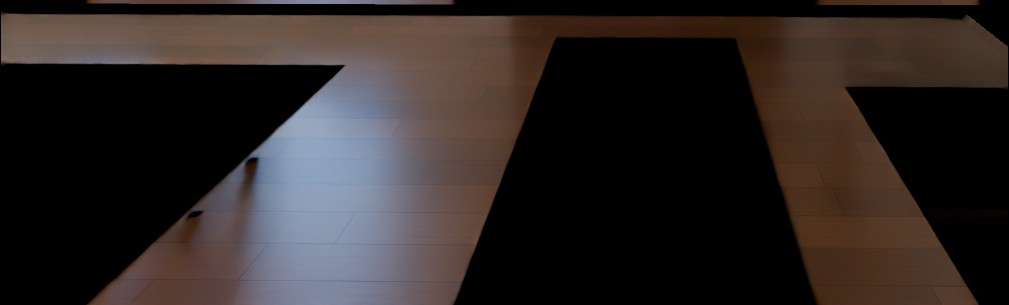
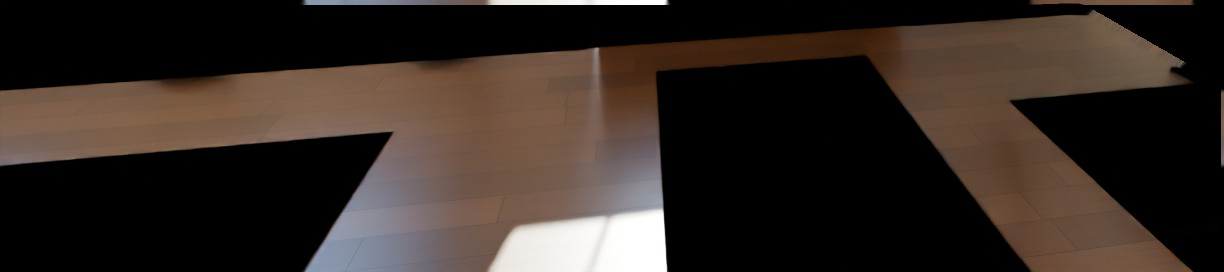
The Lookout 3500 2.0: foyer
The Lookout 3500 2.0 page: a picture redone.

- Foyer redone: four front door designs, each under a transom (glass over a panel as the new default, steel-look glass doors, a Craftsman door with sidelights, panelled doors), door colour and hardware follow the design; crown molding as a choice; cased window with curtains, afternoon sun. A door design that lets in more or less light now fades into the picture instead of ending at a rectangle.

Claude-Session: https://claude.ai/code/session_01LcUu1yMTHs7qUW5E51HSvp

diff --git a/lookout/site.js b/lookout/site.js
@@ -1,1 +1,1 @@
-window.SJ={"name":"The Lookout 3500 2.0","slug":"the-lookout-3500-2","tag":"One-and-a-half-story plan","sub":"Four bedrooms and three and a half baths in 3,760 square feet, with the primary suite on the main level, a lookout room on the roof and a three-car garage.","stats":[["3,760","sq ft finished"],["4","bedrooms"],["3.5","baths"],["3","car garage"],["Main-level","primary suite"],["14 x 16","lookout room"]],"hero":{"day":"img/hero-day.jpg","night":""},"views":[{"id":"hero","name":"Front","kind":"ext","keys":["fas","fdc","g","gdc","lk","prf","rof","sid","trm","win"]},{"id":"yard","name":"Back yard","kind":"ext","keys":["fas","g","lk","pl","prf","pst","rof","sid","trm","win"]},{"id":"great","name":"Living room","kind":"int","keys":["bi","clg","cr","flr","fp","hwc","idc","ids","wal","win"]},{"id":"kitchen","name":"Kitchen","kind":"int","keys":["bsp","cab","ctr","flr","hwc","isl","wal","win"]},{"id":"dining","name":"Dining room","kind":"int","keys":["flr","wal","win"]},{"id":"foyer","name":"Foyer","kind":"int","keys":["fdc","flr","sf","sr","wal","win"]},{"id":"primary","name":"Primary bedroom","kind":"int","keys":["flr","hwc","wal","win"]},{"id":"bath","name":"Primary bath","kind":"int","keys":["btl","ctr","hwc","wal","win"]},{"id":"loft","name":"Upstairs loft","kind":"int","keys":["wal","win"]},{"id":"lookout","name":"Lookout room","kind":"int","keys":["sf","sr","wal","win"],"veil":{"when":{"lk":"0"},"keys":["sf","sr","wal","win"],"note":"Shows in this picture when the lookout room is chosen"}},{"id":"bed2","name":"Bedroom 2","kind":"int","keys":["cpt","uf","wal","win"]},{"id":"bed4","name":"Bedroom 4","kind":"int","keys":["cpt","hwc","idc","uf","wal","win"]},{"id":"lounge","name":"Lower level lounge","kind":"int","keys":["b","cab","ctr","hwc","isl","wal"],"veil":{"when":{"b":"u"},"keys":["cab","ctr","hwc","isl","wal"],"note":"Shows in this picture once the lower level is finished"}},{"id":"bar","name":"Lower level bar","kind":"int","keys":["b","ctr","hwc","isl","wal"],"veil":{"when":{"b":"u"},"keys":["ctr","hwc","isl","wal"],"note":"Shows in this picture once the lower level is finished"}}],"baths":[],"bathkeys":[],"opts":[{"key":"lk","name":"Lookout room","cat":"ext","ch":[{"id":"1","name":"Lookout room on the roof (as drawn)"},{"id":"0","name":"No lookout"}],"note":"The lookout room sits on the roof, 14 x 16 ft with windows all around, reached by its own stair."},{"key":"g","name":"Garage entry","cat":"ext","ch":[{"id":"f","name":"Front entry (as drawn)"},{"id":"s","name":"Side entry, with a motor court"}],"note":"Side entry: the garage wing is re-proportioned and its doors face a motor court at the side; windows take their place on the front."},{"key":"pl","name":"Pool","cat":"ext","ch":[{"id":"n","name":"No pool (as drawn)"},{"id":"1","name":"Lap pool, 10 x 45 ft"},{"id":"2","name":"Plunge pool with a raised spa"},{"id":"3","name":"Courtyard pool with a shade pavilion"}],"note":"The pools sit behind the covered deck, on a paved terrace one step above the lawn."},{"key":"sid","name":"Siding colour","cat":"ext","ch":[{"id":"white","name":"Chantilly White","css":"#F1EFE8"},{"id":"cream","name":"Warm Cream","css":"#E6DCC6"},{"id":"greige","name":"Pebble Greige","css":"#B9B2A3"},{"id":"sage","name":"Sage","css":"#8E9A86"},{"id":"blue","name":"Harbor Blue","css":"#5E768A"},{"id":"navy","name":"Midnight Navy","css":"#28364A"},{"id":"iron","name":"Iron Gray","css":"#45484A"},{"id":"black","name":"Tricorn Black","css":"#222325"}]},{"key":"trm","name":"Trim and corner boards","cat":"ext","ch":[{"id":"white","name":"White","css":"#F4F2EC"},{"id":"cream","name":"Cream","css":"#E9E1CF"},{"id":"black","name":"Black","css":"#1E1F21"},{"id":"bronze","name":"Dark Bronze","css":"#3A322B"}]},{"key":"rof","name":"Roof shingles","cat":"ext","ch":[{"id":"char","name":"Charcoal","css":"linear-gradient(180deg,#33353A 0 50%,#45474C 50%)"},{"id":"onyx","name":"Onyx Black","css":"linear-gradient(180deg,#1D1E21 0 50%,#2A2B2F 50%)"},{"id":"wood","name":"Weathered Wood","css":"linear-gradient(180deg,#5E554B 0 50%,#7A6F62 50%)"},{"id":"slate","name":"Slate Gray","css":"linear-gradient(180deg,#4D5560 0 50%,#69717C 50%)"},{"id":"brown","name":"Barkwood","css":"linear-gradient(180deg,#41342B 0 50%,#5B4A3D 50%)"}]},{"key":"prf","name":"Porch, lookout and accent roofs","cat":"ext","ch":[{"id":"metal","name":"Black standing seam","css":"repeating-linear-gradient(90deg,#1b1c1f 0 7px,#34363a 7px 9px)"},{"id":"copper","name":"Copper standing seam","css":"repeating-linear-gradient(90deg,#9A5A34 0 7px,#c07c4c 7px 9px)"},{"id":"match","name":"Shingles to match","css":"repeating-linear-gradient(0deg,#2a2b2f 0 5px,#1d1e21 5px 10px)"}]},{"key":"fas","name":"Gutters and downspouts","cat":"ext","ch":[{"id":"white","name":"White","css":"#F2F0EA"},{"id":"black","name":"Black","css":"#1B1C1E"},{"id":"bronze","name":"Dark Bronze","css":"#3A322B"}]},{"key":"win","name":"Window frames","cat":"ext","ch":[{"id":"black","name":"Black","css":"#18191B"},{"id":"white","name":"White","css":"#F0EEE8"},{"id":"bronze","name":"Bronze","css":"#3B3129"},{"id":"clay","name":"Clay","css":"#A89F8E"}]},{"key":"fdc","name":"Front door colour","cat":"ext","ch":[{"id":"wood","name":"Stained Walnut","css":"linear-gradient(135deg,#6A4226,#4A2C18)"},{"id":"black","name":"Black","css":"#161719"},{"id":"navy","name":"Navy","css":"#22324A"},{"id":"red","name":"Barn Red","css":"#6E1F1B"},{"id":"teal","name":"Deep Teal","css":"#1F4A4C"},{"id":"sage","name":"Sage","css":"#7C8A74"},{"id":"white","name":"White","css":"#F0EEE8"}]},{"key":"gdc","name":"Garage door colour","cat":"ext","ch":[{"id":"white","name":"White","css":"#EFEDE7"},{"id":"black","name":"Black","css":"#18191B"},{"id":"iron","name":"Iron Gray","css":"#4A4C4E"},{"id":"bronze","name":"Bronze","css":"#3B3129"},{"id":"wood","name":"Walnut","css":"linear-gradient(135deg,#6A4226,#4A2C18)"}]},{"key":"pst","name":"Porch posts and beams","cat":"ext","ch":[{"id":"cedar","name":"Stained cedar","css":"linear-gradient(135deg,#96663A,#774E28)"},{"id":"white","name":"White","css":"#EFEDE7"},{"id":"black","name":"Black","css":"#1F2022"}]},{"key":"b","name":"Lower level","cat":"int","ch":[{"id":"u","name":"Unfinished (as drawn)"},{"id":"f","name":"Finished"}]},{"key":"clg","name":"Living room ceiling","cat":"int","ch":[{"id":"c","name":"Coffered, painted"},{"id":"o","name":"Coffered, oak beams"},{"id":"b","name":"Timber beams"},{"id":"t","name":"Tray ceiling"}],"note":"Coffers: nine panels framed by beams, centred on the fireplace, with a ring chandelier in the middle."},{"key":"cr","name":"Crown molding","cat":"int","ch":[{"id":"n","name":"None"},{"id":"c","name":"Classic crown, 5 1/4 in."},{"id":"f","name":"Craftsman, flat with a cap"}],"note":"Runs on every wall that meets a flat ceiling: the main level, upstairs, the lookout room and the loft over the closet."},{"key":"fp","name":"Fireplace","cat":"int","ch":[{"id":"stone","name":"Stacked stone (as drawn)","css":"repeating-linear-gradient(0deg,#8f887c 0 4px,#6f695f 4px 5px)"},{"id":"white","name":"White stacked stone","css":"repeating-linear-gradient(0deg,#E9E6DF 0 4px,#c4c0b7 4px 5px)"},{"id":"brick","name":"Red brick","css":"repeating-linear-gradient(0deg,#8E4A36 0 5px,#B9B2A6 5px 6px)"},{"id":"wbrick","name":"White painted brick","css":"repeating-linear-gradient(0deg,#EDEAE3 0 5px,#cfcbc2 5px 6px)"},{"id":"slate","name":"Charcoal slate tile","css":"repeating-linear-gradient(90deg,#3B3D40 0 12px,#1F2022 12px 13px)"}]},{"key":"bi","name":"Fireplace built-ins","cat":"int","ch":[{"id":"c","name":"Cabinets with oak tops (as drawn)"},{"id":"s","name":"Cabinets and shelves to the ceiling"},{"id":"n","name":"None"}],"note":"The built-ins stand on both sides of the fireplace."},{"key":"ids","name":"Interior door style","cat":"int","ch":[{"id":"s","name":"Two-panel Shaker"},{"id":"f","name":"Five-panel"},{"id":"c","name":"Craftsman, three-panel"}],"note":"8 ft doors on the main level, 6 ft 8 in. upstairs; every opening is cased, with a cap over the head."},{"key":"idc","name":"Interior doors","cat":"int","ch":[{"id":"white","name":"White","css":"#F2F0EA"},{"id":"black","name":"Black","css":"#1E1F21"},{"id":"grey","name":"Gray","css":"#8F9190"},{"id":"oak","name":"Natural oak","css":"linear-gradient(135deg,#B9905E,#A67C4C)"}]},{"key":"sf","name":"Stair treads and handrails","cat":"int","ch":[{"id":"o","name":"Natural oak (as drawn)","css":"linear-gradient(135deg,#B9905E,#A67C4C)"},{"id":"d","name":"Walnut","css":"linear-gradient(135deg,#6A4A32,#573B27)"},{"id":"k","name":"Ebony","css":"linear-gradient(135deg,#30261F,#211A15)"},{"id":"w","name":"Whitewashed oak","css":"linear-gradient(135deg,#D9CDB8,#C9BCA4)"}]},{"key":"sr","name":"Stair balusters","cat":"int","ch":[{"id":"k","name":"Black iron","css":"#141414"},{"id":"w","name":"White","css":"#EFEDE7"},{"id":"b","name":"Satin brass","css":"#B08A4A"}]},{"key":"flr","name":"Hardwood flooring","cat":"int","ch":[{"id":"oak","name":"Natural Oak Plank","css":"repeating-linear-gradient(90deg,#B08F68 0 9px,#9C7B55 9px 18px)"},{"id":"honey","name":"Honey Oak","css":"repeating-linear-gradient(90deg,#B8834A 0 9px,#A2703C 9px 18px)"},{"id":"grey","name":"Driftwood Gray","css":"repeating-linear-gradient(90deg,#9A9288 0 9px,#857D73 9px 18px)"},{"id":"walnut","name":"Walnut","css":"repeating-linear-gradient(90deg,#6A4A32 0 9px,#573B27 9px 18px)"},{"id":"white","name":"Whitewashed","css":"repeating-linear-gradient(90deg,#CFC3B0 0 9px,#BFB29E 9px 18px)"}]},{"key":"uf","name":"Bedroom flooring","cat":"int","ch":[{"id":"c","name":"Carpet (as shown)","css":"repeating-linear-gradient(45deg,#C9C0AE 0 3px,#BDB4A2 3px 6px)"},{"id":"oak","name":"Natural Oak Plank","css":"repeating-linear-gradient(90deg,#B08F68 0 9px,#9C7B55 9px 18px)"},{"id":"honey","name":"Honey Oak","css":"repeating-linear-gradient(90deg,#B8834A 0 9px,#A2703C 9px 18px)"},{"id":"grey","name":"Driftwood Gray","css":"repeating-linear-gradient(90deg,#9A9288 0 9px,#857D73 9px 18px)"},{"id":"walnut","name":"Walnut","css":"repeating-linear-gradient(90deg,#6A4A32 0 9px,#573B27 9px 18px)"},{"id":"white","name":"Whitewashed","css":"repeating-linear-gradient(90deg,#CFC3B0 0 9px,#BFB29E 9px 18px)"}]},{"key":"cpt","name":"Carpet","cat":"int","ch":[{"id":"oat","name":"Oatmeal","css":"#C9C0AE"},{"id":"grey","name":"Silver","css":"#B5B3AE"},{"id":"taupe","name":"Taupe","css":"#A39685"}],"only":{"uf":"c"}},{"key":"wal","name":"Wall paint","cat":"int","ch":[{"id":"alab","name":"Alabaster","css":"#EDEAE0"},{"id":"grey","name":"Agreeable Gray","css":"#D1CBC1"},{"id":"greige","name":"Accessible Beige","css":"#D1C7B8"},{"id":"blue","name":"Sea Salt","css":"#CDD2CA"},{"id":"white","name":"Pure White","css":"#F2F0EB"}]},{"key":"cab","name":"Kitchen cabinets","cat":"int","ch":[{"id":"white","name":"White Shaker","css":"#EFEDE7"},{"id":"grey","name":"Dove Gray","css":"#A9ABA8"},{"id":"sage","name":"Sage","css":"#8A967F"},{"id":"navy","name":"Navy","css":"#27364B"},{"id":"black","name":"Black","css":"#1F2022"},{"id":"oak","name":"Natural Oak","css":"linear-gradient(135deg,#B9905E,#A67C4C)"}]},{"key":"isl","name":"Island and range hood","cat":"int","ch":[{"id":"navy","name":"Navy","css":"#27364B"},{"id":"white","name":"White","css":"#EFEDE7"},{"id":"oak","name":"Natural Oak","css":"linear-gradient(135deg,#B9905E,#A67C4C)"},{"id":"black","name":"Black","css":"#1F2022"},{"id":"sage","name":"Sage","css":"#8A967F"}]},{"key":"ctr","name":"Countertops","cat":"int","ch":[{"id":"white","name":"White Quartz","css":"#EEEBE4"},{"id":"marble","name":"Marble-look Quartz","css":"linear-gradient(120deg,#ECE9E3 0 40%,#b9b6ae 44%,#ECE9E3 48% 70%,#c9c6be 74%,#ECE9E3 78%)"},{"id":"black","name":"Black Granite","css":"linear-gradient(120deg,#17181A 0 55%,#4a4a48 60%,#17181A 65%)"},{"id":"grey","name":"Concrete Gray","css":"#9A9894"}]},{"key":"bsp","name":"Backsplash","cat":"int","ch":[{"id":"slab","name":"Marble slab","css":"linear-gradient(120deg,#ECE9E3 0 40%,#b9b6ae 44%,#ECE9E3 48% 70%,#c9c6be 74%,#ECE9E3 78%)"},{"id":"subway","name":"White Subway","css":"repeating-linear-gradient(0deg,#F0EEE8 0 8px,#cfccc4 8px 9px)"},{"id":"green","name":"Sage Zellige","css":"repeating-linear-gradient(0deg,#8FA08A 0 8px,#6f806a 8px 9px)"},{"id":"grey","name":"Gray Subway","css":"repeating-linear-gradient(0deg,#B4B6B4 0 8px,#8f918f 8px 9px)"},{"id":"black","name":"Black Subway","css":"repeating-linear-gradient(0deg,#232426 0 8px,#6A6A68 8px 9px)"}]},{"key":"btl","name":"Bath floor tile","cat":"int","ch":[{"id":"w","name":"White porcelain","css":"repeating-linear-gradient(90deg,#EDEBE6 0 12px,#B9B6AE 12px 13px)"},{"id":"g","name":"Warm gray","css":"repeating-linear-gradient(90deg,#B9B2A6 0 12px,#8C867B 12px 13px)"},{"id":"m","name":"Marble look","css":"linear-gradient(120deg,#ECEAE6 0 40%,#c4c1bb 46%,#ECEAE6 52%)"},{"id":"c","name":"Charcoal slate","css":"repeating-linear-gradient(90deg,#4A4C4F 0 12px,#2C2D2F 12px 13px)"}]},{"key":"hwc","name":"Hardware and faucets","cat":"int","ch":[{"id":"brass","name":"Satin Brass","css":"#B08A4A"},{"id":"black","name":"Matte Black","css":"#101011"},{"id":"nickel","name":"Satin Nickel","css":"#9A9A98"}]}],"defaults":{"sid":"white","trm":"white","fas":"white","win":"black","fdc":"wood","gdc":"white","rof":"char","prf":"metal","lk":"1","g":"f","b":"u","pl":"n","fd":"g","pst":"cedar","clg":"c","cr":"n","fp":"stone","bi":"c","sf":"o","sr":"k","idc":"white","ids":"s","lof":"o","hwc":"brass","wal":"alab","cab":"white","isl":"navy","ctr":"marble","bsp":"slab","vcab":"oak","shw":"slab","btl":"w","flr":"oak","cpt":"oat","uf":"c"},"gallery":[],"looks":[{"cat":"ext","name":"Modern farmhouse (as drawn)","set":{}},{"cat":"ext","name":"Midnight and copper","set":{"sid":"navy","prf":"copper","gdc":"wood","rof":"onyx"}},{"cat":"ext","name":"Sage cottage","set":{"sid":"sage","trm":"cream","fas":"bronze","win":"white","rof":"wood","fdc":"navy"}},{"cat":"ext","name":"Charcoal modern","set":{"sid":"iron","trm":"black","fas":"black","rof":"onyx","gdc":"black","fdc":"black"}},{"cat":"ext","name":"Coastal blue","set":{"sid":"blue","win":"white","rof":"slate","fdc":"navy"}},{"cat":"ext","name":"Warm greige","set":{"sid":"greige","trm":"cream","fas":"bronze","win":"bronze","rof":"brown","gdc":"bronze"}},{"cat":"ext","name":"Black barn","set":{"sid":"black","trm":"black","fas":"black","gdc":"wood","prf":"copper"}},{"cat":"int","name":"Light and warm (as shown)","set":{}},{"cat":"int","name":"Warm oak","set":{"isl":"oak","ctr":"marble","flr":"honey","wal":"greige","clg":"o","cr":"f","ids":"c"}},{"cat":"int","name":"Deep and moody","set":{"cab":"navy","bsp":"grey","flr":"walnut","wal":"grey","idc":"black","clg":"b","cr":"c"}},{"cat":"int","name":"Scandinavian","set":{"isl":"white","flr":"white","wal":"white","hwc":"black","clg":"t","ids":"f"}},{"cat":"int","name":"Sage kitchen","set":{"cab":"sage","isl":"oak","bsp":"green"}},{"cat":"int","name":"Black and white","set":{"cab":"black","isl":"white","ctr":"marble","flr":"grey","wal":"white","hwc":"nickel","idc":"black","ids":"c","cr":"c"}},{"cat":"int","name":"Everything added","set":{"cr":"c","clg":"o","bi":"s","ids":"c","b":"f"}}],"plan_lead":"Each level seen from straight above, with everything over it taken away. Furniture is illustrative.","plans":[{"id":"main_f","name":"Main level","note":"2,144 sq ft: living, dining and kitchen in the core, the primary suite in its own wing, a three-car garage","svg":"<img src=\"img/plan-main_f.jpg\" alt=\"Main level, seen from above with the levels over it taken away\" style=\"width:100%;height:auto;display:block;border-radius:10px\">"},{"id":"main_s","name":"Main level, side-entry garage","note":"The same rooms; the garage wing is re-proportioned and entered from a motor court at the side","svg":"<img src=\"img/plan-main_s.jpg\" alt=\"Main level, side-entry garage, seen from above with the levels over it taken away\" style=\"width:100%;height:auto;display:block;border-radius:10px\">"},{"id":"upper","name":"Upstairs","note":"1,224 sq ft: three bedrooms, two baths, the loft and a laundry; the office loft sits over the primary closet","svg":"<img src=\"img/plan-upper.jpg\" alt=\"Upstairs, seen from above with the levels over it taken away\" style=\"width:100%;height:auto;display:block;border-radius:10px\">"},{"id":"look","name":"Lookout","note":"224 sq ft: the lookout room on the roof, windows on all four sides","svg":"<img src=\"img/plan-look.jpg\" alt=\"Lookout, seen from above with the levels over it taken away\" style=\"width:100%;height:auto;display:block;border-radius:10px\">"},{"id":"bsmt_u","name":"Lower level","note":"Unfinished, as drawn: a safe room, mechanical space and rough-ins for a bath and a wet bar","svg":"<img src=\"img/plan-bsmt_u.jpg\" alt=\"Lower level, seen from above with the levels over it taken away\" style=\"width:100%;height:auto;display:block;border-radius:10px\">"},{"id":"bsmt_f","name":"Lower level, finished","note":"Lounge, bar, gym, bath and sauna, with the safe room, storage and mechanical space","svg":"<img src=\"img/plan-bsmt_f.jpg\" alt=\"Lower level, finished, seen from above with the levels over it taken away\" style=\"width:100%;height:auto;display:block;border-radius:10px\">"}],"lot":null,"specs":[{"h":"The home","items":["3,760 sq ft finished: 2,144 on the main level, 1,224 upstairs, a 168 sq ft office loft and the 224 sq ft lookout room","Four bedrooms and three and a half baths; the primary suite is on the main level in its own wing","The primary suite: a 20 x 20 bedroom with a door to the covered deck, a spa bath and a walk-in closet, about 800 sq ft in all","Three-car garage in a wing of its own, front entry or side entry","Core 34 x 36 ft, two stories; the garage wing 32 x 24 ft and the primary wing 20 x 46 ft are one story"]},{"h":"Rooms","items":["Main level: foyer, dining room, living room with a fireplace and a 12 ft slider to the covered deck, kitchen with a prep kitchen and pantry, mudroom, powder room, laundry","Upstairs: three bedrooms, two baths, a loft, a second laundry","An office loft over the primary closet, reached by its own spiral stair","The lookout room: 14 x 16 ft on the roof, windows on all four sides"]},{"h":"Heights and roof","items":["10 ft ceilings on the main level","Gable roofs with standing-seam accents over the porch, the lookout and the garage doors","Covered 16 x 14 ft deck off the living room; covered front porch on timber posts"]},{"h":"Inside finish","items":["Living room ceiling: nine coffers centred on the fireplace with a ring chandelier, painted or in oak; timber beams or a tray ceiling instead","Doors: 8 ft on the main level and 6 ft 8 in. upstairs, in three panel styles, every opening cased with a cap over the head","Crown molding as a choice on the main and upper levels, classic or craftsman","Front door in four designs under a transom: glass over a panel, steel-look glass, craftsman with sidelights, or panelled","Baths: vanity cabinets and shower walls chosen apart from the kitchen","The loft over the primary closet as a home office, a library or a retreat"]},{"h":"Outside","items":["Board-and-batten siding with trim boards at corners and openings","Black-framed windows with grids","A full basement under the core"]}],"foot":["The pictures and the design studio on this page are computer renderings of a 3D model of the plan. Furniture, planting and the land around the house are illustrative; the plan is not drawn on a particular lot.","Finishes offered in the design studio are examples for planning, not a builder's price list. A builder's plan set and contract govern."],"tour":null,"model3d":{"src":"3d/","poster":"img/hero-day.jpg"}};
+window.SJ={"name":"The Lookout 3500 2.0","slug":"the-lookout-3500-2","tag":"One-and-a-half-story plan","sub":"Four bedrooms and three and a half baths in 3,760 square feet, with the primary suite on the main level, a lookout room on the roof and a three-car garage.","stats":[["3,760","sq ft finished"],["4","bedrooms"],["3.5","baths"],["3","car garage"],["Main-level","primary suite"],["14 x 16","lookout room"]],"hero":{"day":"img/hero-day.jpg","night":""},"views":[{"id":"hero","name":"Front","kind":"ext","keys":["fas","fdc","g","gdc","lk","prf","rof","sid","trm","win"]},{"id":"yard","name":"Back yard","kind":"ext","keys":["fas","g","lk","pl","prf","pst","rof","sid","trm","win"]},{"id":"great","name":"Living room","kind":"int","keys":["bi","clg","cr","flr","fp","hwc","idc","ids","wal","win"]},{"id":"kitchen","name":"Kitchen","kind":"int","keys":["bsp","cab","ctr","flr","hwc","isl","wal","win"]},{"id":"dining","name":"Dining room","kind":"int","keys":["flr","wal","win"]},{"id":"foyer","name":"Foyer","kind":"int","keys":["cr","fd","fdc","flr","hwc","sf","sr","wal","win"]},{"id":"primary","name":"Primary bedroom","kind":"int","keys":["flr","hwc","wal","win"]},{"id":"bath","name":"Primary bath","kind":"int","keys":["btl","ctr","hwc","wal","win"]},{"id":"loft","name":"Upstairs loft","kind":"int","keys":["wal","win"]},{"id":"lookout","name":"Lookout room","kind":"int","keys":["sf","sr","wal","win"],"veil":{"when":{"lk":"0"},"keys":["sf","sr","wal","win"],"note":"Shows in this picture when the lookout room is chosen"}},{"id":"bed2","name":"Bedroom 2","kind":"int","keys":["cpt","uf","wal","win"]},{"id":"bed4","name":"Bedroom 4","kind":"int","keys":["cpt","hwc","idc","uf","wal","win"]},{"id":"lounge","name":"Lower level lounge","kind":"int","keys":["b","cab","ctr","hwc","isl","wal"],"veil":{"when":{"b":"u"},"keys":["cab","ctr","hwc","isl","wal"],"note":"Shows in this picture once the lower level is finished"}},{"id":"bar","name":"Lower level bar","kind":"int","keys":["b","ctr","hwc","isl","wal"],"veil":{"when":{"b":"u"},"keys":["ctr","hwc","isl","wal"],"note":"Shows in this picture once the lower level is finished"}}],"baths":[],"bathkeys":[],"opts":[{"key":"lk","name":"Lookout room","cat":"ext","ch":[{"id":"1","name":"Lookout room on the roof (as drawn)"},{"id":"0","name":"No lookout"}],"note":"The lookout room sits on the roof, 14 x 16 ft with windows all around, reached by its own stair."},{"key":"g","name":"Garage entry","cat":"ext","ch":[{"id":"f","name":"Front entry (as drawn)"},{"id":"s","name":"Side entry, with a motor court"}],"note":"Side entry: the garage wing is re-proportioned and its doors face a motor court at the side; windows take their place on the front."},{"key":"pl","name":"Pool","cat":"ext","ch":[{"id":"n","name":"No pool (as drawn)"},{"id":"1","name":"Lap pool, 10 x 45 ft"},{"id":"2","name":"Plunge pool with a raised spa"},{"id":"3","name":"Courtyard pool with a shade pavilion"}],"note":"The pools sit behind the covered deck, on a paved terrace one step above the lawn."},{"key":"sid","name":"Siding colour","cat":"ext","ch":[{"id":"white","name":"Chantilly White","css":"#F1EFE8"},{"id":"cream","name":"Warm Cream","css":"#E6DCC6"},{"id":"greige","name":"Pebble Greige","css":"#B9B2A3"},{"id":"sage","name":"Sage","css":"#8E9A86"},{"id":"blue","name":"Harbor Blue","css":"#5E768A"},{"id":"navy","name":"Midnight Navy","css":"#28364A"},{"id":"iron","name":"Iron Gray","css":"#45484A"},{"id":"black","name":"Tricorn Black","css":"#222325"}]},{"key":"trm","name":"Trim and corner boards","cat":"ext","ch":[{"id":"white","name":"White","css":"#F4F2EC"},{"id":"cream","name":"Cream","css":"#E9E1CF"},{"id":"black","name":"Black","css":"#1E1F21"},{"id":"bronze","name":"Dark Bronze","css":"#3A322B"}]},{"key":"rof","name":"Roof shingles","cat":"ext","ch":[{"id":"char","name":"Charcoal","css":"linear-gradient(180deg,#33353A 0 50%,#45474C 50%)"},{"id":"onyx","name":"Onyx Black","css":"linear-gradient(180deg,#1D1E21 0 50%,#2A2B2F 50%)"},{"id":"wood","name":"Weathered Wood","css":"linear-gradient(180deg,#5E554B 0 50%,#7A6F62 50%)"},{"id":"slate","name":"Slate Gray","css":"linear-gradient(180deg,#4D5560 0 50%,#69717C 50%)"},{"id":"brown","name":"Barkwood","css":"linear-gradient(180deg,#41342B 0 50%,#5B4A3D 50%)"}]},{"key":"prf","name":"Porch, lookout and accent roofs","cat":"ext","ch":[{"id":"metal","name":"Black standing seam","css":"repeating-linear-gradient(90deg,#1b1c1f 0 7px,#34363a 7px 9px)"},{"id":"copper","name":"Copper standing seam","css":"repeating-linear-gradient(90deg,#9A5A34 0 7px,#c07c4c 7px 9px)"},{"id":"match","name":"Shingles to match","css":"repeating-linear-gradient(0deg,#2a2b2f 0 5px,#1d1e21 5px 10px)"}]},{"key":"fas","name":"Gutters and downspouts","cat":"ext","ch":[{"id":"white","name":"White","css":"#F2F0EA"},{"id":"black","name":"Black","css":"#1B1C1E"},{"id":"bronze","name":"Dark Bronze","css":"#3A322B"}]},{"key":"win","name":"Window frames","cat":"ext","ch":[{"id":"black","name":"Black","css":"#18191B"},{"id":"white","name":"White","css":"#F0EEE8"},{"id":"bronze","name":"Bronze","css":"#3B3129"},{"id":"clay","name":"Clay","css":"#A89F8E"}]},{"key":"fd","name":"Front door","cat":"ext","ch":[{"id":"g","name":"Double doors, glass over a panel"},{"id":"s","name":"Steel-look glass double doors"},{"id":"c","name":"Craftsman door with sidelights"},{"id":"p","name":"Panelled double doors"}],"note":"Every design comes with a transom over the door; its colour is the next choice."},{"key":"fdc","name":"Front door colour","cat":"ext","ch":[{"id":"wood","name":"Stained Walnut","css":"linear-gradient(135deg,#6A4226,#4A2C18)"},{"id":"black","name":"Black","css":"#161719"},{"id":"navy","name":"Navy","css":"#22324A"},{"id":"red","name":"Barn Red","css":"#6E1F1B"},{"id":"teal","name":"Deep Teal","css":"#1F4A4C"},{"id":"sage","name":"Sage","css":"#7C8A74"},{"id":"white","name":"White","css":"#F0EEE8"}]},{"key":"gdc","name":"Garage door colour","cat":"ext","ch":[{"id":"white","name":"White","css":"#EFEDE7"},{"id":"black","name":"Black","css":"#18191B"},{"id":"iron","name":"Iron Gray","css":"#4A4C4E"},{"id":"bronze","name":"Bronze","css":"#3B3129"},{"id":"wood","name":"Walnut","css":"linear-gradient(135deg,#6A4226,#4A2C18)"}]},{"key":"pst","name":"Porch posts and beams","cat":"ext","ch":[{"id":"cedar","name":"Stained cedar","css":"linear-gradient(135deg,#96663A,#774E28)"},{"id":"white","name":"White","css":"#EFEDE7"},{"id":"black","name":"Black","css":"#1F2022"}]},{"key":"b","name":"Lower level","cat":"int","ch":[{"id":"u","name":"Unfinished (as drawn)"},{"id":"f","name":"Finished"}]},{"key":"clg","name":"Living room ceiling","cat":"int","ch":[{"id":"c","name":"Coffered, painted"},{"id":"o","name":"Coffered, oak beams"},{"id":"b","name":"Timber beams"},{"id":"t","name":"Tray ceiling"}],"note":"Coffers: nine panels framed by beams, centred on the fireplace, with a ring chandelier in the middle."},{"key":"cr","name":"Crown molding","cat":"int","ch":[{"id":"n","name":"None"},{"id":"c","name":"Classic crown, 5 1/4 in."},{"id":"f","name":"Craftsman, flat with a cap"}],"note":"Runs on every wall that meets a flat ceiling: the main level, upstairs, the lookout room and the loft over the closet."},{"key":"fp","name":"Fireplace","cat":"int","ch":[{"id":"stone","name":"Stacked stone (as drawn)","css":"repeating-linear-gradient(0deg,#8f887c 0 4px,#6f695f 4px 5px)"},{"id":"white","name":"White stacked stone","css":"repeating-linear-gradient(0deg,#E9E6DF 0 4px,#c4c0b7 4px 5px)"},{"id":"brick","name":"Red brick","css":"repeating-linear-gradient(0deg,#8E4A36 0 5px,#B9B2A6 5px 6px)"},{"id":"wbrick","name":"White painted brick","css":"repeating-linear-gradient(0deg,#EDEAE3 0 5px,#cfcbc2 5px 6px)"},{"id":"slate","name":"Charcoal slate tile","css":"repeating-linear-gradient(90deg,#3B3D40 0 12px,#1F2022 12px 13px)"}]},{"key":"bi","name":"Fireplace built-ins","cat":"int","ch":[{"id":"c","name":"Cabinets with oak tops (as drawn)"},{"id":"s","name":"Cabinets and shelves to the ceiling"},{"id":"n","name":"None"}],"note":"The built-ins stand on both sides of the fireplace."},{"key":"ids","name":"Interior door style","cat":"int","ch":[{"id":"s","name":"Two-panel Shaker"},{"id":"f","name":"Five-panel"},{"id":"c","name":"Craftsman, three-panel"}],"note":"8 ft doors on the main level, 6 ft 8 in. upstairs; every opening is cased, with a cap over the head."},{"key":"idc","name":"Interior doors","cat":"int","ch":[{"id":"white","name":"White","css":"#F2F0EA"},{"id":"black","name":"Black","css":"#1E1F21"},{"id":"grey","name":"Gray","css":"#8F9190"},{"id":"oak","name":"Natural oak","css":"linear-gradient(135deg,#B9905E,#A67C4C)"}]},{"key":"sf","name":"Stair treads and handrails","cat":"int","ch":[{"id":"o","name":"Natural oak (as drawn)","css":"linear-gradient(135deg,#B9905E,#A67C4C)"},{"id":"d","name":"Walnut","css":"linear-gradient(135deg,#6A4A32,#573B27)"},{"id":"k","name":"Ebony","css":"linear-gradient(135deg,#30261F,#211A15)"},{"id":"w","name":"Whitewashed oak","css":"linear-gradient(135deg,#D9CDB8,#C9BCA4)"}]},{"key":"sr","name":"Stair balusters","cat":"int","ch":[{"id":"k","name":"Black iron","css":"#141414"},{"id":"w","name":"White","css":"#EFEDE7"},{"id":"b","name":"Satin brass","css":"#B08A4A"}]},{"key":"flr","name":"Hardwood flooring","cat":"int","ch":[{"id":"oak","name":"Natural Oak Plank","css":"repeating-linear-gradient(90deg,#B08F68 0 9px,#9C7B55 9px 18px)"},{"id":"honey","name":"Honey Oak","css":"repeating-linear-gradient(90deg,#B8834A 0 9px,#A2703C 9px 18px)"},{"id":"grey","name":"Driftwood Gray","css":"repeating-linear-gradient(90deg,#9A9288 0 9px,#857D73 9px 18px)"},{"id":"walnut","name":"Walnut","css":"repeating-linear-gradient(90deg,#6A4A32 0 9px,#573B27 9px 18px)"},{"id":"white","name":"Whitewashed","css":"repeating-linear-gradient(90deg,#CFC3B0 0 9px,#BFB29E 9px 18px)"}]},{"key":"uf","name":"Bedroom flooring","cat":"int","ch":[{"id":"c","name":"Carpet (as shown)","css":"repeating-linear-gradient(45deg,#C9C0AE 0 3px,#BDB4A2 3px 6px)"},{"id":"oak","name":"Natural Oak Plank","css":"repeating-linear-gradient(90deg,#B08F68 0 9px,#9C7B55 9px 18px)"},{"id":"honey","name":"Honey Oak","css":"repeating-linear-gradient(90deg,#B8834A 0 9px,#A2703C 9px 18px)"},{"id":"grey","name":"Driftwood Gray","css":"repeating-linear-gradient(90deg,#9A9288 0 9px,#857D73 9px 18px)"},{"id":"walnut","name":"Walnut","css":"repeating-linear-gradient(90deg,#6A4A32 0 9px,#573B27 9px 18px)"},{"id":"white","name":"Whitewashed","css":"repeating-linear-gradient(90deg,#CFC3B0 0 9px,#BFB29E 9px 18px)"}]},{"key":"cpt","name":"Carpet","cat":"int","ch":[{"id":"oat","name":"Oatmeal","css":"#C9C0AE"},{"id":"grey","name":"Silver","css":"#B5B3AE"},{"id":"taupe","name":"Taupe","css":"#A39685"}],"only":{"uf":"c"}},{"key":"wal","name":"Wall paint","cat":"int","ch":[{"id":"alab","name":"Alabaster","css":"#EDEAE0"},{"id":"grey","name":"Agreeable Gray","css":"#D1CBC1"},{"id":"greige","name":"Accessible Beige","css":"#D1C7B8"},{"id":"blue","name":"Sea Salt","css":"#CDD2CA"},{"id":"white","name":"Pure White","css":"#F2F0EB"}]},{"key":"cab","name":"Kitchen cabinets","cat":"int","ch":[{"id":"white","name":"White Shaker","css":"#EFEDE7"},{"id":"grey","name":"Dove Gray","css":"#A9ABA8"},{"id":"sage","name":"Sage","css":"#8A967F"},{"id":"navy","name":"Navy","css":"#27364B"},{"id":"black","name":"Black","css":"#1F2022"},{"id":"oak","name":"Natural Oak","css":"linear-gradient(135deg,#B9905E,#A67C4C)"}]},{"key":"isl","name":"Island and range hood","cat":"int","ch":[{"id":"navy","name":"Navy","css":"#27364B"},{"id":"white","name":"White","css":"#EFEDE7"},{"id":"oak","name":"Natural Oak","css":"linear-gradient(135deg,#B9905E,#A67C4C)"},{"id":"black","name":"Black","css":"#1F2022"},{"id":"sage","name":"Sage","css":"#8A967F"}]},{"key":"ctr","name":"Countertops","cat":"int","ch":[{"id":"white","name":"White Quartz","css":"#EEEBE4"},{"id":"marble","name":"Marble-look Quartz","css":"linear-gradient(120deg,#ECE9E3 0 40%,#b9b6ae 44%,#ECE9E3 48% 70%,#c9c6be 74%,#ECE9E3 78%)"},{"id":"black","name":"Black Granite","css":"linear-gradient(120deg,#17181A 0 55%,#4a4a48 60%,#17181A 65%)"},{"id":"grey","name":"Concrete Gray","css":"#9A9894"}]},{"key":"bsp","name":"Backsplash","cat":"int","ch":[{"id":"slab","name":"Marble slab","css":"linear-gradient(120deg,#ECE9E3 0 40%,#b9b6ae 44%,#ECE9E3 48% 70%,#c9c6be 74%,#ECE9E3 78%)"},{"id":"subway","name":"White Subway","css":"repeating-linear-gradient(0deg,#F0EEE8 0 8px,#cfccc4 8px 9px)"},{"id":"green","name":"Sage Zellige","css":"repeating-linear-gradient(0deg,#8FA08A 0 8px,#6f806a 8px 9px)"},{"id":"grey","name":"Gray Subway","css":"repeating-linear-gradient(0deg,#B4B6B4 0 8px,#8f918f 8px 9px)"},{"id":"black","name":"Black Subway","css":"repeating-linear-gradient(0deg,#232426 0 8px,#6A6A68 8px 9px)"}]},{"key":"btl","name":"Bath floor tile","cat":"int","ch":[{"id":"w","name":"White porcelain","css":"repeating-linear-gradient(90deg,#EDEBE6 0 12px,#B9B6AE 12px 13px)"},{"id":"g","name":"Warm gray","css":"repeating-linear-gradient(90deg,#B9B2A6 0 12px,#8C867B 12px 13px)"},{"id":"m","name":"Marble look","css":"linear-gradient(120deg,#ECEAE6 0 40%,#c4c1bb 46%,#ECEAE6 52%)"},{"id":"c","name":"Charcoal slate","css":"repeating-linear-gradient(90deg,#4A4C4F 0 12px,#2C2D2F 12px 13px)"}]},{"key":"hwc","name":"Hardware and faucets","cat":"int","ch":[{"id":"brass","name":"Satin Brass","css":"#B08A4A"},{"id":"black","name":"Matte Black","css":"#101011"},{"id":"nickel","name":"Satin Nickel","css":"#9A9A98"}]}],"defaults":{"sid":"white","trm":"white","fas":"white","win":"black","fdc":"wood","gdc":"white","rof":"char","prf":"metal","lk":"1","g":"f","b":"u","pl":"n","fd":"g","pst":"cedar","clg":"c","cr":"n","fp":"stone","bi":"c","sf":"o","sr":"k","idc":"white","ids":"s","lof":"o","hwc":"brass","wal":"alab","cab":"white","isl":"navy","ctr":"marble","bsp":"slab","vcab":"oak","shw":"slab","btl":"w","flr":"oak","cpt":"oat","uf":"c"},"gallery":[],"looks":[{"cat":"ext","name":"Modern farmhouse (as drawn)","set":{}},{"cat":"ext","name":"Midnight and copper","set":{"sid":"navy","prf":"copper","gdc":"wood","rof":"onyx"}},{"cat":"ext","name":"Sage cottage","set":{"sid":"sage","trm":"cream","fas":"bronze","win":"white","rof":"wood","fdc":"navy","fd":"c"}},{"cat":"ext","name":"Charcoal modern","set":{"sid":"iron","trm":"black","fas":"black","rof":"onyx","gdc":"black","fdc":"black","fd":"s"}},{"cat":"ext","name":"Coastal blue","set":{"sid":"blue","win":"white","rof":"slate","fdc":"navy"}},{"cat":"ext","name":"Warm greige","set":{"sid":"greige","trm":"cream","fas":"bronze","win":"bronze","rof":"brown","gdc":"bronze","fd":"p"}},{"cat":"ext","name":"Black barn","set":{"sid":"black","trm":"black","fas":"black","gdc":"wood","prf":"copper","fd":"p"}},{"cat":"int","name":"Light and warm (as shown)","set":{}},{"cat":"int","name":"Warm oak","set":{"isl":"oak","ctr":"marble","flr":"honey","wal":"greige","clg":"o","cr":"f","ids":"c"}},{"cat":"int","name":"Deep and moody","set":{"cab":"navy","bsp":"grey","flr":"walnut","wal":"grey","idc":"black","clg":"b","cr":"c"}},{"cat":"int","name":"Scandinavian","set":{"isl":"white","flr":"white","wal":"white","hwc":"black","clg":"t","ids":"f"}},{"cat":"int","name":"Sage kitchen","set":{"cab":"sage","isl":"oak","bsp":"green"}},{"cat":"int","name":"Black and white","set":{"cab":"black","isl":"white","ctr":"marble","flr":"grey","wal":"white","hwc":"nickel","idc":"black","ids":"c","cr":"c"}},{"cat":"int","name":"Everything added","set":{"cr":"c","clg":"o","bi":"s","ids":"c","b":"f"}}],"plan_lead":"Each level seen from straight above, with everything over it taken away. Furniture is illustrative.","plans":[{"id":"main_f","name":"Main level","note":"2,144 sq ft: living, dining and kitchen in the core, the primary suite in its own wing, a three-car garage","svg":"<img src=\"img/plan-main_f.jpg\" alt=\"Main level, seen from above with the levels over it taken away\" style=\"width:100%;height:auto;display:block;border-radius:10px\">"},{"id":"main_s","name":"Main level, side-entry garage","note":"The same rooms; the garage wing is re-proportioned and entered from a motor court at the side","svg":"<img src=\"img/plan-main_s.jpg\" alt=\"Main level, side-entry garage, seen from above with the levels over it taken away\" style=\"width:100%;height:auto;display:block;border-radius:10px\">"},{"id":"upper","name":"Upstairs","note":"1,224 sq ft: three bedrooms, two baths, the loft and a laundry; the office loft sits over the primary closet","svg":"<img src=\"img/plan-upper.jpg\" alt=\"Upstairs, seen from above with the levels over it taken away\" style=\"width:100%;height:auto;display:block;border-radius:10px\">"},{"id":"look","name":"Lookout","note":"224 sq ft: the lookout room on the roof, windows on all four sides","svg":"<img src=\"img/plan-look.jpg\" alt=\"Lookout, seen from above with the levels over it taken away\" style=\"width:100%;height:auto;display:block;border-radius:10px\">"},{"id":"bsmt_u","name":"Lower level","note":"Unfinished, as drawn: a safe room, mechanical space and rough-ins for a bath and a wet bar","svg":"<img src=\"img/plan-bsmt_u.jpg\" alt=\"Lower level, seen from above with the levels over it taken away\" style=\"width:100%;height:auto;display:block;border-radius:10px\">"},{"id":"bsmt_f","name":"Lower level, finished","note":"Lounge, bar, gym, bath and sauna, with the safe room, storage and mechanical space","svg":"<img src=\"img/plan-bsmt_f.jpg\" alt=\"Lower level, finished, seen from above with the levels over it taken away\" style=\"width:100%;height:auto;display:block;border-radius:10px\">"}],"lot":null,"specs":[{"h":"The home","items":["3,760 sq ft finished: 2,144 on the main level, 1,224 upstairs, a 168 sq ft office loft and the 224 sq ft lookout room","Four bedrooms and three and a half baths; the primary suite is on the main level in its own wing","The primary suite: a 20 x 20 bedroom with a door to the covered deck, a spa bath and a walk-in closet, about 800 sq ft in all","Three-car garage in a wing of its own, front entry or side entry","Core 34 x 36 ft, two stories; the garage wing 32 x 24 ft and the primary wing 20 x 46 ft are one story"]},{"h":"Rooms","items":["Main level: foyer, dining room, living room with a fireplace and a 12 ft slider to the covered deck, kitchen with a prep kitchen and pantry, mudroom, powder room, laundry","Upstairs: three bedrooms, two baths, a loft, a second laundry","An office loft over the primary closet, reached by its own spiral stair","The lookout room: 14 x 16 ft on the roof, windows on all four sides"]},{"h":"Heights and roof","items":["10 ft ceilings on the main level","Gable roofs with standing-seam accents over the porch, the lookout and the garage doors","Covered 16 x 14 ft deck off the living room; covered front porch on timber posts"]},{"h":"Inside finish","items":["Living room ceiling: nine coffers centred on the fireplace with a ring chandelier, painted or in oak; timber beams or a tray ceiling instead","Doors: 8 ft on the main level and 6 ft 8 in. upstairs, in three panel styles, every opening cased with a cap over the head","Crown molding as a choice on the main and upper levels, classic or craftsman","Front door in four designs under a transom: glass over a panel, steel-look glass, craftsman with sidelights, or panelled","Baths: vanity cabinets and shower walls chosen apart from the kitchen","The loft over the primary closet as a home office, a library or a retreat"]},{"h":"Outside","items":["Board-and-batten siding with trim boards at corners and openings","Black-framed windows with grids","A full basement under the core"]}],"foot":["The pictures and the design studio on this page are computer renderings of a 3D model of the plan. Furniture, planting and the land around the house are illustrative; the plan is not drawn on a particular lot.","Finishes offered in the design studio are examples for planning, not a builder's price list. A builder's plan set and contract govern."],"tour":null,"model3d":{"src":"3d/","poster":"img/hero-day.jpg"}};

diff --git a/lookout/studio.js b/lookout/studio.js
@@ -111,7 +111,8 @@
       var ck = key(d.keys, state); if (ck === key(d.keys, D)) continue;
       var L = d.layers[ck + (d.deps.length ? "@" + key(d.deps, state) : "")]; if (!L) continue;
       var b = d.box, bw = b[2] - b[0], bh = b[3] - b[1], p = await pix(vurl(L.img), bw, bh); if (!alive()) return null;
-      var F = 10, al = null;
+      var F = d.soft || 10, al = null, KP = null;      /* (a choice that changes the room's light fades in over a wide band; what really changed stays whole) */
+      if (d.soft && L.keep) { KP = (await chans(vurl(L.keep), bw, bh))[0]; if (!alive()) return null; }
       if (L.chg) for (var pk = 0; pk < patches.length; pk++) {      /* its rectangle runs into one already laid down: deep inside that one, only what this picture really changes goes over it (the bookcase beside the stair stays) */
         if (G[patches[pk].g].keys.every(function (k) { return d.deps.indexOf(k) >= 0; })) continue;      /* (this picture was made for that choice too: it simply goes over it) */
         var pb = patches[pk].box, ix0 = Math.max(b[0], pb[0]), iy0 = Math.max(b[1], pb[1]), ix1 = Math.min(b[2], pb[2]), iy1 = Math.min(b[3], pb[3]); if (ix1 <= ix0 || iy1 <= iy0) continue;
@@ -125,6 +126,7 @@
         var fy = Math.min(b[1] > 0 ? (y + 1) / F : 1, b[3] < H ? (bh - y) / F : 1, 1);
         for (x = 0; x < bw; x++) {
           var f = Math.min(fy, b[0] > 0 ? (x + 1) / F : 1, b[2] < W ? (bw - x) / F : 1), o = ((y + b[1]) * W + x + b[0]) * 4, q = (y * bw + x) * 4;
+          if (KP && f < 1) { f = f * f * (3 - 2 * f); f = Math.max(f, KP[y * bw + x] / 255); }
           if (al) f *= al[y * bw + x] / 255;
           if (f >= 1) { out[o] = p[q]; out[o + 1] = p[q + 1]; out[o + 2] = p[q + 2]; } else { out[o] += (p[q] - out[o]) * f; out[o + 1] += (p[q + 1] - out[o + 1]) * f; out[o + 2] += (p[q + 2] - out[o + 2]) * f; }
         }
